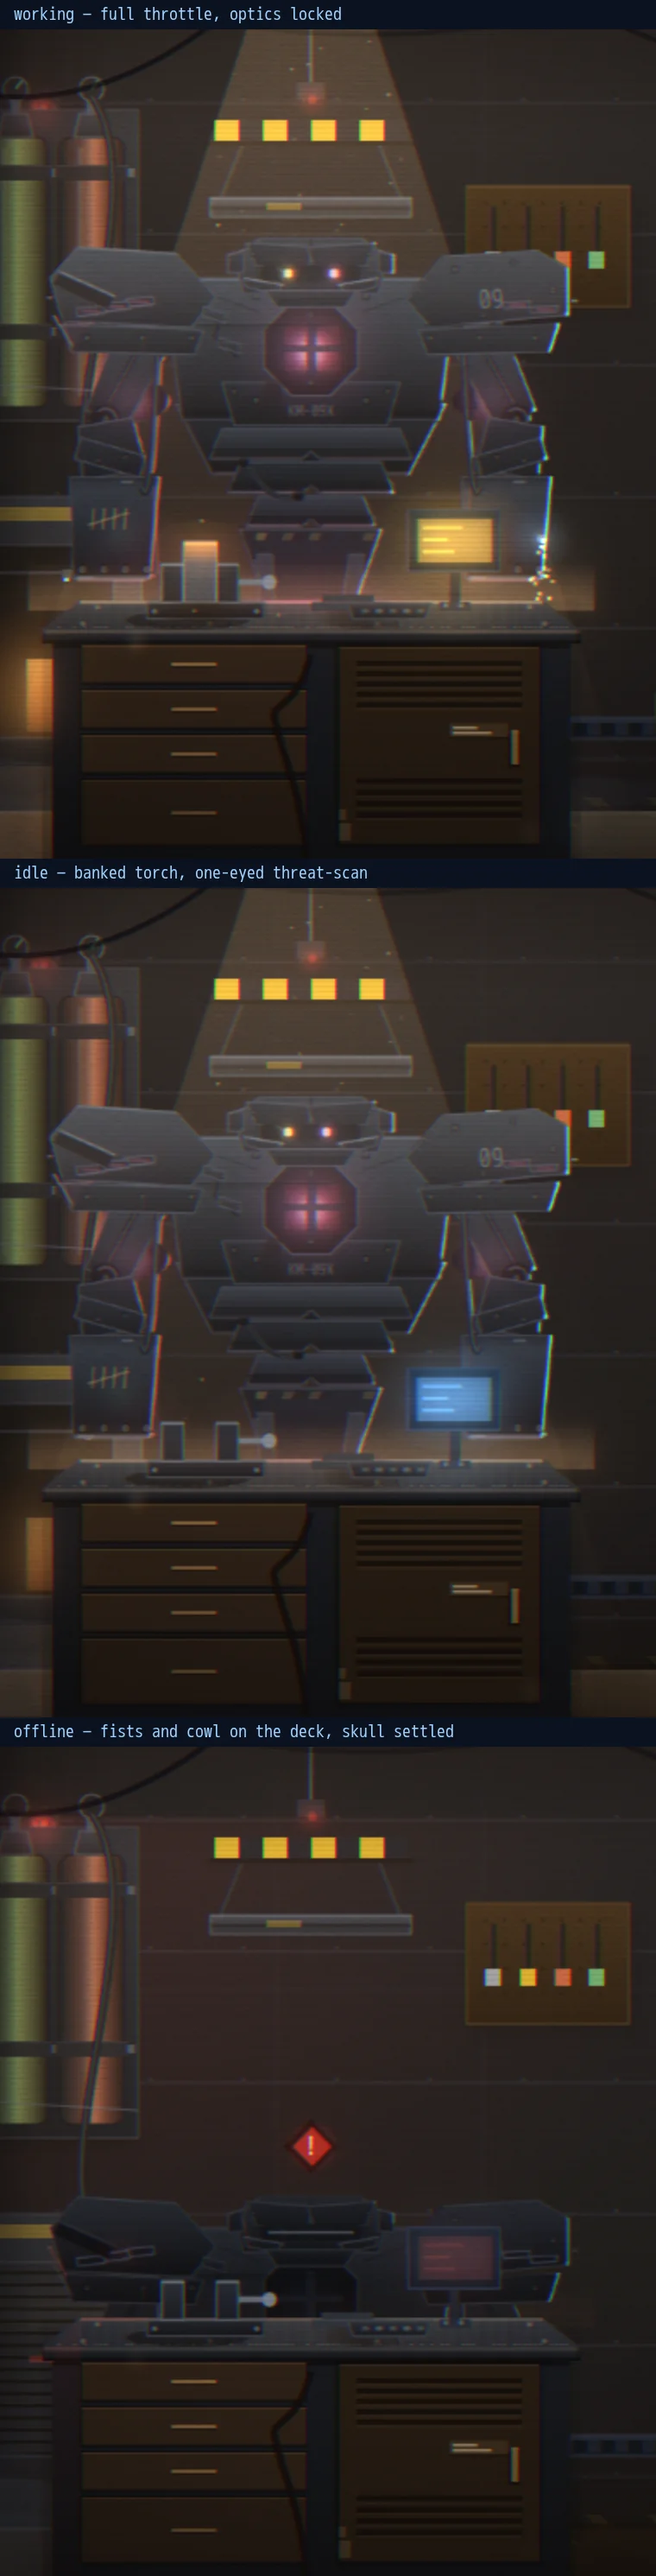
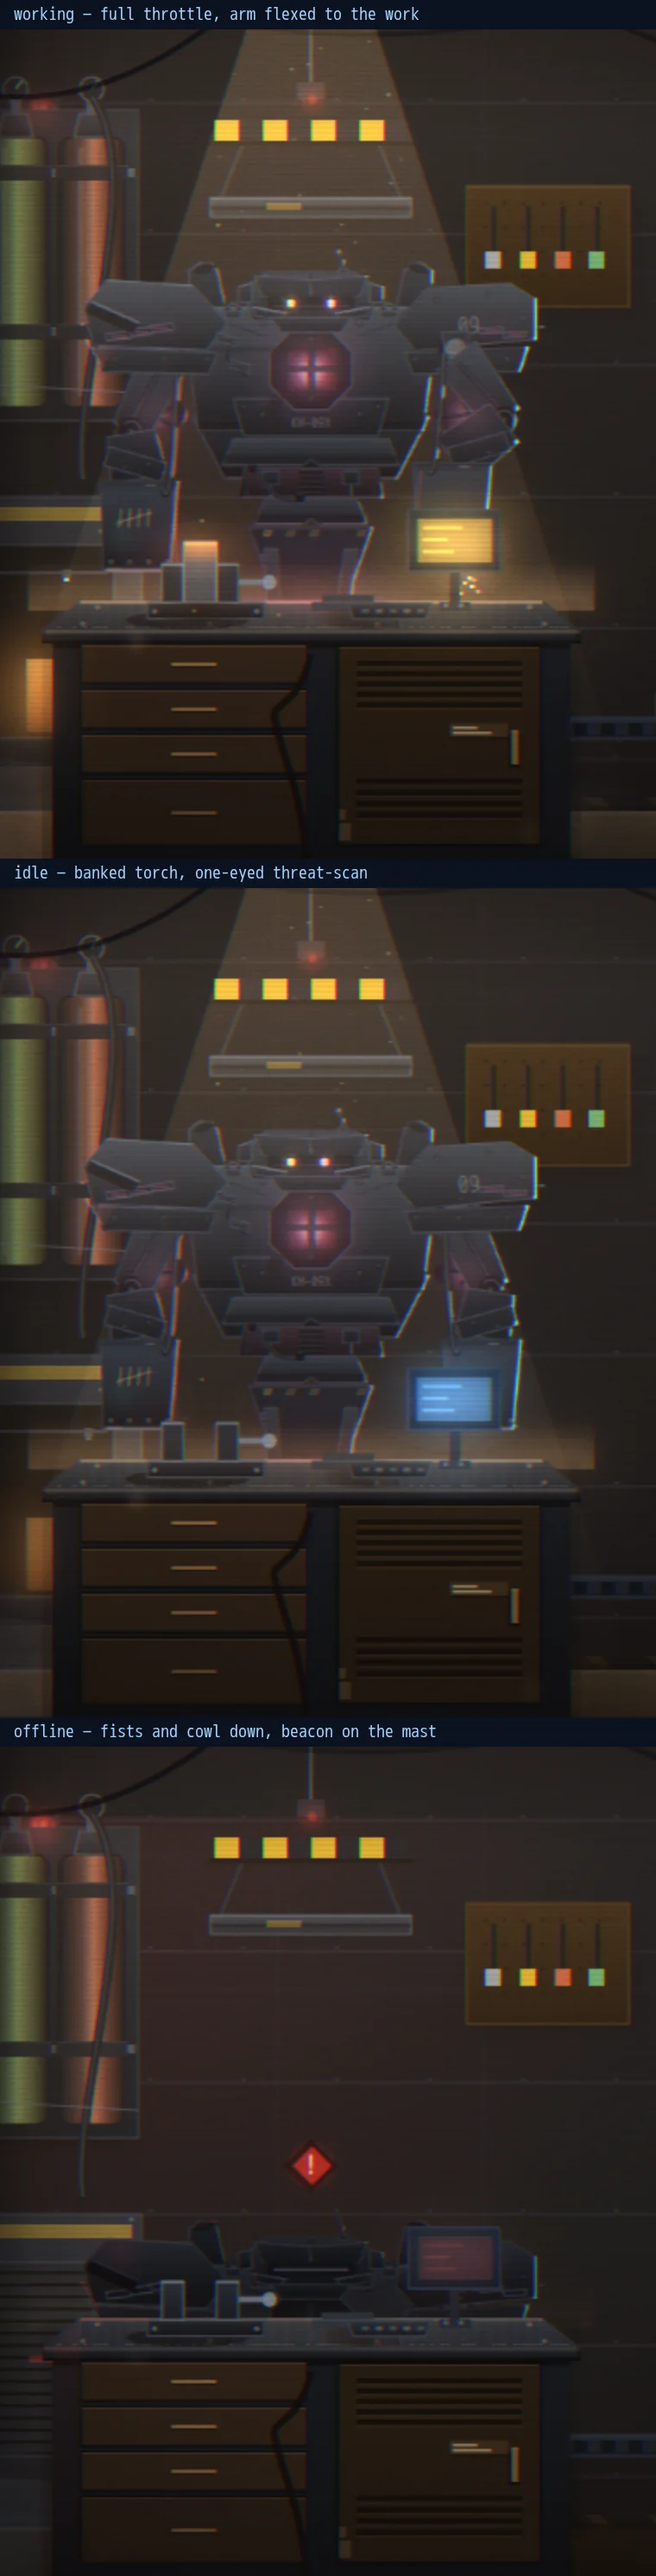
docs(fleet-floor): kimi rounds 7-8 — LAYOUT.unit restored to the fleet box; strips, states, gif, asset map refreshed
After the L16 resize the 36-combo union measures exactly the pre-series
envelope [333.8,286.4->605.4,613.5] — kimi tucks back inside codex's splay —
so LAYOUT.unit returns to [333,286,273,327] with the story in the comment.
Rounds 7 (operator corrections) and 8 (five discovery loops) written into
the LOOPS.md series; progression-7/8 strips, refreshed states strip, the
22-frame evolution.gif and asset-map-current.webp regenerated. Suite 395 ok
/ 0 failed.

diff --git a/fleet-floor/dev/whiteboard.html b/fleet-floor/dev/whiteboard.html
@@ -439,10 +439,11 @@ var LAYOUT={
      333), so a prop in the inner ~40px of a left bay can be stood in front of.
      Nothing there today needs to stay readable, and now that is a decision
      rather than an accident. */
-  /* Re-measured for the JUGGERNAUT: kimi now binds three of the four edges —
-     pauldron tips left and right (316..624, wider than codex's leg splay) and
-     the working head top (279); codex still owns the bottom (613). */
-  unit:["unit envelope",316,279,308,335],
+  /* Re-measured after the JUGGERNAUT landed and was sized to the room
+     (kimi series L16): at 1.05 the siege torso tucks back inside codex's
+     splay, so the union is codex's width and floor line under claude's
+     head top again — the same box the fleet had before kimi grew. */
+  unit:["unit envelope",333,286,273,327],
   /* Nothing goes here, in any room. The ceiling is deliberately not on this
      list: the crane rail and the roof truss cross the lamp on purpose. */
   keep:[

diff --git a/fleet-floor/index.html b/fleet-floor/index.html
@@ -348,10 +348,11 @@ var LAYOUT={
      333), so a prop in the inner ~40px of a left bay can be stood in front of.
      Nothing there today needs to stay readable, and now that is a decision
      rather than an accident. */
-  /* Re-measured for the JUGGERNAUT: kimi now binds three of the four edges —
-     pauldron tips left and right (316..624, wider than codex's leg splay) and
-     the working head top (279); codex still owns the bottom (613). */
-  unit:["unit envelope",316,279,308,335],
+  /* Re-measured after the JUGGERNAUT landed and was sized to the room
+     (kimi series L16): at 1.05 the siege torso tucks back inside codex's
+     splay, so the union is codex's width and floor line under claude's
+     head top again — the same box the fleet had before kimi grew. */
+  unit:["unit envelope",333,286,273,327],
   /* Nothing goes here, in any room. The ceiling is deliberately not on this
      list: the crane rail and the roof truss cross the lamp on purpose. */
   keep:[

diff --git a/fleet-floor/src/app.js b/fleet-floor/src/app.js
@@ -131,10 +131,11 @@ var LAYOUT={
      333), so a prop in the inner ~40px of a left bay can be stood in front of.
      Nothing there today needs to stay readable, and now that is a decision
      rather than an accident. */
-  /* Re-measured for the JUGGERNAUT: kimi now binds three of the four edges —
-     pauldron tips left and right (316..624, wider than codex's leg splay) and
-     the working head top (279); codex still owns the bottom (613). */
-  unit:["unit envelope",316,279,308,335],
+  /* Re-measured after the JUGGERNAUT landed and was sized to the room
+     (kimi series L16): at 1.05 the siege torso tucks back inside codex's
+     splay, so the union is codex's width and floor line under claude's
+     head top again — the same box the fleet had before kimi grew. */
+  unit:["unit envelope",333,286,273,327],
   /* Nothing goes here, in any room. The ceiling is deliberately not on this
      list: the crane rail and the roof truss cross the lamp on purpose. */
   keep:[

diff --git a/fleet-floor/dev/LOOPS.md b/fleet-floor/dev/LOOPS.md
@@ -2079,10 +2079,72 @@ slots cut outboard of the stencil.
 two ticks scoured off entirely, the rest half-worn — the fleet's hazard
 idiom carried in kimi's own fiction. Paint, not a light.
 
-Envelope over all 36: `[316.8, 279.7 → 623.9, 613.5]`, declared. Suite:
-395 ok, 0 failed. Cells re-swept at 336px: the silhouette that survives is
-chest-furnace-and-pauldrons — a hulk with a fire in it, where the drone used
-to vanish into the wall.
+Envelope over all 36 after round 6: `[316.8, 279.7 → 623.9, 613.5]`,
+declared. Suite: 395 ok, 0 failed. Cells re-swept at 336px: the silhouette
+that survives is chest-furnace-and-pauldrons — a hulk with a fire in it,
+where the drone used to vanish into the wall.
+
+Round seven came back from the operator with three corrections: the unit
+was oversized for the room, the abdomen was fine but could be much cooler,
+and the working pose was odd — the arm should flex the way claude's does.
+
+**Loop 16 — 12.5% smaller.** F 1.2→1.05. At 1.2 the pauldrons out-spanned
+codex's whole leg splay and the head crowded the lamp; at 1.05 the siege
+mass stays and the room gets its air back. The local geometry — knuckle
+lines, bell park — is scale-invariant and held untouched; only the powered
+altitude re-tuned so the studs keep their worktop clearance.
+
+**Loop 17 — the abdomen is a machine.** The middle waist leaf deleted; in
+its place the service band the crew stopped re-armouring: twin hydraulic
+rams with bright rods under load, a ribbed bellows spine, corner grommets,
+the furnace glow reaching in from above, the loop-9 loom now crossing an
+actual mechanism. The waist stopped being a skirt.
+
+**Loop 18 — the working arm flexes.** The right arm bends to work: elbow
+out at the pauldron rim, thick forearm driving down and in, the fist
+landing low in FRONT of the waist where the weld arc lives. Drawn late —
+the codex front-leg lesson: anything drawn before the chest is overpainted
+— and under the jet's light. The hose pulls taut on a flexed arm (sag 11
+vs 22 hanging, 31 dead); the hand anchor follows the pose.
+
+Round eight was five discovery loops, each hunting one thing that made the
+unit cooler:
+
+**Loop 19 — the visor is an instrument.** The slit floor carries a cold
+strip of live light, both optics became hard 6px lenses in dark bezels, the
+amber glass eye takes one fixed white catchlight from the lamp (glass
+reflects; a sensor doesn't), and working, a ranging hairline crosses the
+pink optic — aiming, not looking.
+
+**Loop 20 — scoops and crane lugs.** Two ram-air ducts rise between the
+head and the cowls, drawn behind the chest so only their throats and lit
+mouth rims clear the trapezius line — a nuclear torch still breathes
+coolant. Two bolted D-ring crane lugs on the glacis crown, worn bright
+where the shackles ride: nothing this heavy walks onto a transport.
+
+**Loop 21 — the machinery lives.** Four vanes turn in each grav bell's
+mouth — 2.4× under throttle, 0.9× idle, frozen mid-rotation dead or under
+reduced motion — with a hub so the mouth reads as a machine, not a lamp.
+The abdomen rams breathe counter-phased against the hover bob; dead they
+sit at half stroke. All sin(t), deterministic at fixed t.
+
+**Loop 22 — the bent rangefinder.** A short armoured mast off the crown's
+right shoulder, kinked twenty degrees at the bolted joint by a hit that was
+never worth straightening. The one thin thing on the unit, and it is thin
+because it is broken.
+
+**Loop 23 — the ember and the beacon.** A nuclear core does not go black
+when the unit dies: behind the cage bars the window holds a deep-red ember
+— heat, not power, albedo only. And since the knuckle-rest hides the
+furnace behind the bench, the beacon takes over on what still shows: red
+glints on the left scoop rim and down the bent mast, breathing with
+beaconPulse like the rooms' own offline rims.
+
+Envelope re-measured after the resize: the union is back to exactly the
+pre-series box — `[333.8, 286.4 → 605.4, 613.5]`, codex's width and floor
+under claude's head top — and LAYOUT.unit is re-declared to match. Suite:
+395 ok, 0 failed. Cells re-swept: kimi now sits in its frame the way the
+others do, and still reads as the hulk with the fire in it.
 
 ![kimi structure progression, the port](shots/kimi-structure/progression.webp)
 ![kimi structure progression, round 2](shots/kimi-structure/progression-2.webp)
@@ -2090,4 +2152,6 @@ to vanish into the wall.
 ![kimi structure progression, round 4](shots/kimi-structure/progression-4.webp)
 ![kimi structure progression, round 5](shots/kimi-structure/progression-5.webp)
 ![kimi structure progression, round 6](shots/kimi-structure/progression-6.webp)
+![kimi structure progression, round 7](shots/kimi-structure/progression-7.webp)
+![kimi structure progression, round 8](shots/kimi-structure/progression-8.webp)
 ![kimi states](shots/kimi-structure/states.webp)
